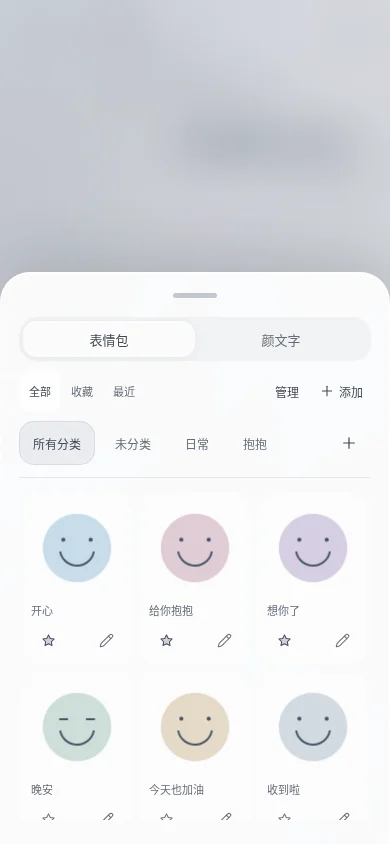
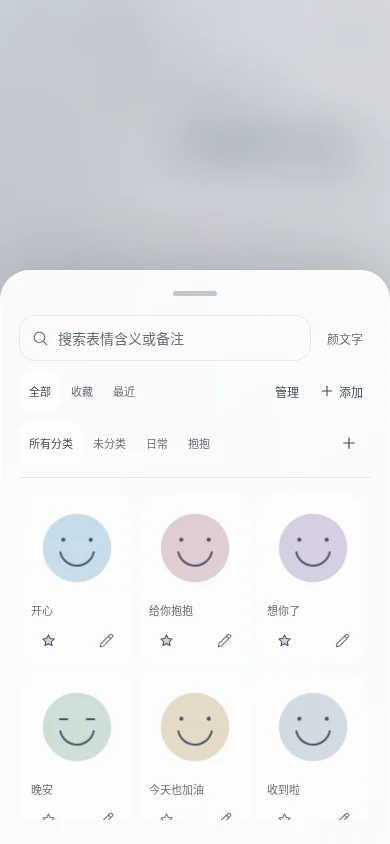
feat: replace expression tabs with search and simplify category chips

diff --git a/src/expressions/view.js b/src/expressions/view.js
@@ -5,12 +5,13 @@ import {visibleStickers} from './model.js';
 const action=(name,label,extra='')=>`<button type="button" data-sticker-action="${name}" ${extra}>${label}</button>`;
 export function expressionContents(state,ui={}){
  const tab=ui.tab||'stickers',stickers=tab==='stickers',managing=stickers&&ui.managing,selected=new Set(ui.selected||[]),category=ui.category??'all';
- const list=stickers?visibleStickers(state.expressions,ui):state.expressions.kaomoji.filter(x=>ui.filter==='favorites'?x.favorite:ui.filter==='recent'?x.used>0:true).slice().sort((a,b)=>ui.filter==='recent'?b.used-a.used:0);
- return `${drawerHeader({title:'表情与颜文字',heading:`<div class="expression-tabs" role="tablist">${[['stickers','表情包'],['kaomoji','颜文字']].map(([t,l])=>`<button role="tab" id="tab-${t}" aria-controls="expression-list" aria-selected="${tab===t}" data-action="expression-tab" data-tab="${t}">${l}</button>`).join('')}</div>`})}
- <div class="expression-toolbar"><div class="tray-filters">${[['all','全部'],['favorites','收藏'],['recent','最近']].map(([f,l])=>`<button data-action="expression-filter" data-filter="${f}" aria-pressed="${ui.filter===f||!ui.filter&&f==='all'}" class="${(ui.filter||'all')===f?'active':''}">${l}</button>`).join('')}</div><div class="expression-toolbar-actions">${stickers?action('manage',managing?'完成':'管理',`aria-pressed="${!!managing}"`):''}${managing?'':stickers?action('add',`${icon('plus')}添加`):`<button data-action="add-kaomoji">${icon('plus')}添加</button>`}</div></div>
- ${stickers?`<div class="sticker-category-row"><div class="sticker-categories" aria-label="表情包分类">${[{id:'all',name:'所有分类'},{id:'',name:'未分类'},...state.expressions.categories].map(c=>action('category',escape(c.name),`data-id="${escape(c.id)}" aria-pressed="${category===c.id}" ${c.id&&c.id!=='all'?'data-custom-category':''}`)).join('')}</div>${category&&category!=='all'?action('category-menu',icon('more'),`data-id="${escape(category)}" aria-label="管理当前分类"`):''}${action('new-category',icon('plus'),'aria-label="新增表情包分类"')}</div>`:''}
+ const query=(ui.search||'').trim().toLocaleLowerCase();
+ const list=stickers?visibleStickers(state.expressions,ui):state.expressions.kaomoji.filter(x=>(!query||x.value.toLocaleLowerCase().includes(query))&&(ui.filter==='favorites'?x.favorite:ui.filter==='recent'?x.used>0:true)).slice().sort((a,b)=>ui.filter==='recent'?b.used-a.used:0);
+ return `${drawerHeader({title:'表情与颜文字',heading:`<label class="expression-search">${icon('search')}<input type="search" data-expression-search maxlength="200" value="${escape(ui.search||'')}" placeholder="${stickers?'搜索表情含义或备注':'搜索颜文字'}" aria-label="${stickers?'搜索表情包':'搜索颜文字'}" autocomplete="off"></label><button type="button" class="expression-kind" data-action="expression-tab" data-tab="${stickers?'kaomoji':'stickers'}" aria-label="切换到${stickers?'颜文字':'表情包'}">${stickers?'颜文字':'表情包'}</button>`})}
+ <div class="expression-toolbar"><div class="tray-filters">${[['all','全部'],['favorites','收藏'],['recent','最近']].map(([f,l])=>`<button data-action="expression-filter" data-filter="${f}" aria-pressed="${ui.filter===f||!ui.filter&&f==='all'}" class="expression-choice ${(ui.filter||'all')===f?'active':''}">${l}</button>`).join('')}</div><div class="expression-toolbar-actions">${stickers?action('manage',managing?'完成':'管理',`aria-pressed="${!!managing}"`):''}${managing?'':stickers?action('add',`${icon('plus')}添加`):`<button data-action="add-kaomoji">${icon('plus')}添加</button>`}</div></div>
+ ${stickers?`<div class="sticker-category-row"><div class="sticker-categories" aria-label="表情包分类">${[{id:'all',name:'所有分类'},{id:'',name:'未分类'},...state.expressions.categories].map(c=>action('category',escape(c.name),`class="expression-choice ${category===c.id?'active':''}" data-id="${escape(c.id)}" aria-pressed="${category===c.id}" ${c.id&&c.id!=='all'?'data-custom-category':''}`)).join('')}</div>${category&&category!=='all'?action('category-menu',icon('more'),`data-id="${escape(category)}" aria-label="管理当前分类"`):''}${action('new-category',icon('plus'),'aria-label="新增表情包分类"')}</div>`:''}
  ${managing?`<div class="sticker-selection"><span role="status">已选 ${selected.size} 项</span>${action('select-all',list.length&&list.every(s=>selected.has(s.id))?'取消全选':'全选当前',list.length?'':'disabled')}</div>`:''}
- <div id="expression-list" class="expression-grid ${stickers?'sticker-grid':''}" role="tabpanel" aria-labelledby="tab-${tab}">${list.length?list.map(x=>stickers?`<article class="sticker-tile drawer-card ${selected.has(x.id)?'is-selected':''}"><button class="expression-use sticker-use" ${managing?`data-sticker-action="select" aria-pressed="${selected.has(x.id)}"`:'data-action="use-expression"'} data-id="${escape(x.id)}" aria-label="${managing?'选择':'添加表情包'}：${escape(x.note||x.name)}"><img src="${escape(x.value)}" alt="${escape(x.note||x.name)}" loading="lazy" referrerpolicy="no-referrer" draggable="false">${managing?`<span class="sticker-check" aria-hidden="true">${selected.has(x.id)?icon('check'):''}</span>`:''}</button><p class="sticker-note">${escape(x.note||x.name)}</p>${managing?'':`<div class="sticker-tools">${action('favorite',icon('star'),`data-id="${escape(x.id)}" aria-label="${x.favorite?'取消收藏':'收藏'} ${escape(x.note||x.name)}" aria-pressed="${x.favorite}"`)}${action('edit',icon('edit'),`data-id="${escape(x.id)}" aria-label="编辑表情备注 ${escape(x.note||x.name)}"`)}</div>`}</article>`:`<article class="expression-tile drawer-card"><button class="expression-use" data-action="use-expression" data-id="${escape(x.id)}" aria-label="插入颜文字 ${escape(x.value)}">${escape(x.value)}</button><div class="expression-tools"><button data-action="favorite-expression" data-id="${escape(x.id)}" aria-pressed="${x.favorite}" aria-label="收藏" class="${x.favorite?'favorite':''}">${icon('star')}</button>${button('edit-kaomoji','edit','编辑',`data-id="${escape(x.id)}"`)}${button('delete-expression','trash','删除',`data-id="${escape(x.id)}"`)}</div></article>`).join(''):`<div class="tray-empty sticker-empty">${icon('mood')}<p>${ui.filter==='recent'?'用过的表情会留在这里。':ui.filter==='favorites'?'把喜欢的表情收藏起来。':'收集一点想表达的心情。'}</p>${stickers&&!managing?action('add','添加表情包'):''}</div>`}</div>
+ <div id="expression-list" class="expression-grid ${stickers?'sticker-grid':''}" role="region" aria-label="${stickers?'表情包':'颜文字'}列表">${list.length?list.map(x=>stickers?`<article class="sticker-tile drawer-card ${selected.has(x.id)?'is-selected':''}"><button class="expression-use sticker-use" ${managing?`data-sticker-action="select" aria-pressed="${selected.has(x.id)}"`:'data-action="use-expression"'} data-id="${escape(x.id)}" aria-label="${managing?'选择':'添加表情包'}：${escape(x.note||x.name)}"><img src="${escape(x.value)}" alt="${escape(x.note||x.name)}" loading="lazy" referrerpolicy="no-referrer" draggable="false">${managing?`<span class="sticker-check" aria-hidden="true">${selected.has(x.id)?icon('check'):''}</span>`:''}</button><p class="sticker-note">${escape(x.note||x.name)}</p>${managing?'':`<div class="sticker-tools">${action('favorite',icon('star'),`data-id="${escape(x.id)}" aria-label="${x.favorite?'取消收藏':'收藏'} ${escape(x.note||x.name)}" aria-pressed="${x.favorite}"`)}${action('edit',icon('edit'),`data-id="${escape(x.id)}" aria-label="编辑表情备注 ${escape(x.note||x.name)}"`)}</div>`}</article>`:`<article class="expression-tile drawer-card"><button class="expression-use" data-action="use-expression" data-id="${escape(x.id)}" aria-label="插入颜文字 ${escape(x.value)}">${escape(x.value)}</button><div class="expression-tools"><button data-action="favorite-expression" data-id="${escape(x.id)}" aria-pressed="${x.favorite}" aria-label="收藏" class="${x.favorite?'favorite':''}">${icon('star')}</button>${button('edit-kaomoji','edit','编辑',`data-id="${escape(x.id)}"`)}${button('delete-expression','trash','删除',`data-id="${escape(x.id)}"`)}</div></article>`).join(''):`<div class="tray-empty sticker-empty">${icon('mood')}<p>${query?'没有找到相关表情，换个关键词试试。':ui.filter==='recent'?'用过的表情会留在这里。':ui.filter==='favorites'?'把喜欢的表情收藏起来。':'收集一点想表达的心情。'}</p>${stickers&&!managing?action('add','添加表情包'):''}</div>`}</div>
  ${managing?`<footer class="sticker-bulk-actions">${action('move',`${icon('layout')}移动`,selected.size?'':'disabled')}${action('delete',`${icon('trash')}删除`,selected.size?'':'disabled')}</footer>`:''}`;
 }
 export function categoryField(expressions,current=''){

diff --git a/src/expressions/style.css b/src/expressions/style.css
@@ -5,9 +5,10 @@
 .expression-toolbar .tray-filters{margin:0;gap:0}.expression-toolbar .tray-filters button{min-height:44px;padding:8px 10px}
 .expression-toolbar-actions{display:flex;gap:4px;flex-shrink:0}.expression-toolbar-actions button{display:flex;align-items:center;justify-content:center;gap:4px;min-height:44px;padding:8px;border-radius:14px;font-size:12px}.expression-toolbar-actions svg{width:16px;height:16px}
 .sticker-category-row{display:flex;align-items:center;gap:4px;min-width:0;padding-bottom:12px;border-bottom:1px solid var(--hairline);margin-bottom:12px}
-.sticker-categories{display:flex;gap:6px;overflow-x:auto;scrollbar-width:none;min-width:0;flex:1;overscroll-behavior:contain}
-.sticker-categories button{flex-shrink:0;max-width:180px;overflow:hidden;text-overflow:ellipsis;white-space:nowrap;min-height:44px;padding:8px 13px;border-radius:15px;font-size:12px;color:var(--muted);border:1px solid transparent;touch-action:pan-x;-webkit-touch-callout:none;user-select:none}
-.sticker-categories [aria-pressed=true]{color:var(--ink);background:rgb(var(--tint) / .12);border-color:var(--hairline)}
+.sticker-categories{display:flex;gap:0;overflow-x:auto;scrollbar-width:none;min-width:0;flex:1;overscroll-behavior:contain}
+.sticker-categories button{flex-shrink:0;max-width:180px;overflow:hidden;text-overflow:ellipsis;white-space:nowrap;min-height:44px;padding:8px 10px;border-radius:14px;font-size:11px;color:var(--muted);border:0;touch-action:pan-x;-webkit-touch-callout:none;user-select:none}
+.expression-tray .expression-choice{min-height:44px;padding:8px 10px;border:0;border-radius:14px;background:none;font-size:11px;color:var(--muted)}
+.expression-tray .expression-choice.active{background:rgb(var(--glass-tint) / .65);color:var(--ink)}
 .sticker-category-row>button{display:grid;place-items:center;width:44px;height:44px;border-radius:14px;flex-shrink:0}.sticker-category-row>button svg{width:18px;height:18px}
 .expression-tray .expression-grid{flex:0 1 auto;min-height:0;max-height:min(330px,42dvh);padding:3px;scroll-padding:4px}
 .expression-tray .sticker-grid{grid-template-columns:repeat(3,minmax(0,1fr));gap:8px;align-items:start}
@@ -39,3 +40,12 @@ dialog.sticker-sheet,dialog.expression-dialog.bottom-sheet{position:fixed;inset:
 @media(max-height:550px){.chat-view>.chat-tray.expression-tray{display:block;max-height:calc(100dvh - 16px);overflow:auto}.expression-tray .expression-grid{max-height:none;overflow:visible}.sticker-bulk-actions{margin-bottom:4px}}
 
 .sticker-format-help{font-size:12px;color:var(--muted);margin:8px 0}.sticker-format-help summary{min-height:44px;padding:12px 0;cursor:pointer}.sticker-format-help pre{white-space:pre-wrap;overflow-wrap:anywhere;line-height:1.7;padding:12px;border-radius:14px;background:rgb(var(--tint) / .08);font-size:11px}
+
+.expression-tray .drawer-heading{gap:8px}
+.expression-search{display:flex;align-items:center;flex:1;min-width:0;gap:9px;padding:0 12px;border:1px solid var(--hairline);border-radius:16px;background:color-mix(in srgb,rgb(var(--glass-tint) / calc(.22 * var(--glass-soften))),rgb(var(--glass-tint)) calc(var(--glass-solid) * 100%));color:var(--muted)}
+.expression-search>svg{width:17px;height:17px}
+.expression-search input{width:100%;min-width:0;min-height:44px;padding:10px 0;border:0;background:none;font-size:14px;line-height:1.5;outline-offset:0}
+.expression-search input::placeholder{color:var(--muted)}
+.expression-tray .expression-kind{flex-shrink:0;min-width:52px;min-height:44px;padding:8px 4px;border-radius:12px;font-size:12px;color:var(--muted)}
+
+.expression-search:focus-within{outline:2px solid var(--accent);outline-offset:2px}.expression-search input:focus-visible{outline:none}.expression-search input::-webkit-search-cancel-button{filter:grayscale(1)}

diff --git a/tests/expressions.test.js b/tests/expressions.test.js
@@ -40,3 +40,17 @@ test('chat image captions are hidden while notes and file names remain accessibl
  assert(!html.includes('<span>不显示的图片名'));assert(!html.includes('<span>&lt;img onerror'));assert(html.includes('alt="抱抱"'));assert(html.includes('保留的文件名.txt'));assert(html.includes('我写的正文'));
  importStickers(s.expressions,[{note:'<script>test</script>',value:'https://example.com/a'}]);const panel=expressionContents(s,{tab:'stickers',managing:true,selected:[s.expressions.stickers[0].id]});assert(panel.includes('&lt;script&gt;'));assert(!panel.includes('<script>'));assert(panel.includes('aria-pressed="true"'));assert(panel.includes('移动'));
 });
+
+test('search matches notes and legacy names together with category and favorite/recent filters without mutating the library',()=>{
+ const e=createState().expressions,a=saveCategory(e,'日常'),b=saveCategory(e,'抱抱');
+ importStickers(e,parseStickerText('温柔抱抱：https://example.com/a\nGOOD NIGHT：https://example.com/b'),a.id);
+ importStickers(e,parseStickerText('抱抱你：https://example.com/c'),b.id);
+ e.stickers[0].used=10;e.stickers[1].favorite=false;e.stickers[2].used=20;
+ const original=structuredClone(e);
+ assert.deepEqual(visibleStickers(e,{search:' 抱抱 ',filter:'recent'}).map(s=>s.note),['抱抱你','温柔抱抱']);
+ assert.deepEqual(visibleStickers(e,{search:'抱抱',category:a.id,filter:'favorites'}).map(s=>s.note),['温柔抱抱']);
+ assert.deepEqual(visibleStickers(e,{search:'good night'}).map(s=>s.note),['GOOD NIGHT']);
+ assert.equal(visibleStickers(e,{search:'good night',filter:'favorites'}).length,0);
+ e.stickers[1].name='old-name.png';assert.equal(visibleStickers(e,{search:'OLD-NAME'}).length,1);e.stickers[1].name=original.stickers[1].name;
+ assert.deepEqual(e,original);
+});

diff --git a/src/expressions/controller.js b/src/expressions/controller.js
@@ -15,6 +15,19 @@ export function createStickerLibrary({app,getState,setState,getUI,persist,notify
   const scroll=panel.querySelector('.expression-grid')?.scrollTop||0,categoryScroll=panel.querySelector('.sticker-categories')?.scrollLeft||0;
   panel.innerHTML=expressionContents(getState(),ui());panel.querySelector('.expression-grid').scrollTop=scroll;const categories=panel.querySelector('.sticker-categories');if(categories)categories.scrollLeft=categoryScroll;
  }
+ // Update results without replacing the search input or interrupting Chinese IME.
+ function search(event){
+  const input=event.target;if(!input.matches('[data-expression-search]'))return;
+  ui().search=input.value;if(event.isComposing)return;ui().selected=[];
+  const panel=input.closest('.expression-tray'),template=document.createElement('template');
+  // Keep the search field still when the result list becomes shorter.
+  panel.style.height=input.value?(panel.style.height||`${panel.getBoundingClientRect().height}px`):'';
+  template.innerHTML=expressionContents(getState(),ui());
+  for(const selector of ['.expression-grid','.sticker-selection','.sticker-bulk-actions']){
+   const current=panel.querySelector(selector),next=template.content.querySelector(selector);if(current&&next)current.replaceChildren(...next.childNodes);
+  }
+ }
+ app.addEventListener('input',search);app.addEventListener('compositionend',search);
  async function close(){if(!dialog.open||closing||busy)return;closing=true;const current=revision;await animateDrawerClose(dialog);if(current!==revision)return;dialog.close();closing=false;}
  bindDrawerDismiss(dialog,{panel:()=>dialog.open&&!closing&&!busy?dialog:null,close,backdrop:true});
  dialog.addEventListener('cancel',e=>{e.preventDefault();void close();});

diff --git a/src/expressions/model.js b/src/expressions/model.js
@@ -14,8 +14,9 @@ export function normalizeExpressions(value,defaults){
  return {kaomoji:clean(value.kaomoji,false),stickers:clean(value.stickers,true),categories};
 }
 export function visibleStickers(expressions,ui={}){
+ const query=(ui.search||'').trim().toLocaleLowerCase();
  const category=ui.category&&expressions.categories.some(c=>c.id===ui.category)?ui.category:ui.category===''?'':'all';
- return expressions.stickers.filter(x=>(category==='all'||(x.category||'')===category)&&(ui.filter==='favorites'?x.favorite:ui.filter==='recent'?x.used>0:true)).slice().sort((a,b)=>ui.filter==='recent'?b.used-a.used:0);
+ return expressions.stickers.filter(x=>(!query||[x.note,x.name].some(value=>value?.toLocaleLowerCase().includes(query)))&&(category==='all'||(x.category||'')===category)&&(ui.filter==='favorites'?x.favorite:ui.filter==='recent'?x.used>0:true)).slice().sort((a,b)=>ui.filter==='recent'?b.used-a.used:0);
 }
 export function saveCategory(expressions,name,id=''){
  name=typeof name==='string'?name.trim():'';

diff --git a/docs/CODEX_HANDOFF.md b/docs/CODEX_HANDOFF.md
@@ -108,7 +108,7 @@
 - `src/splash.js` / `src/splash.css` / `assets/`：水雾开屏。
 - `legacy/`：旧桌面程序存档，不是当前入口。
 - `docs/architecture.md`：后续架构路线参考，不是已经实现的功能清单。
-- `tests/`：Node 内置测试。最近一轮 47 项通过。
+- `tests/`：Node 内置测试。最近一轮 48 项通过。
 
 运行：
 
@@ -264,3 +264,12 @@ npm test
 - 表情包、分类、导入、移动／删除及颜文字编辑均沿用共用玻璃抽屉和拖拽横条，无右上角 ×；支持横条、下拖、遮罩、Escape 与焦点恢复。收藏／分类／多选通过局部更新保留面板及网格滚动；短横屏整体滚动，防止管理栏压住图片。面板支持昼夜及全局透明度／模糊设置。
 - 验证：47 项 Node 测试与全部模块语法检查通过；Chromium 在 320×640、390×844、844×390 验证上传备注、保存失败回滚、文字／TXT／JSON／真实压缩 DOCX 导入、错误输入、去重、分类长按／重命名／删除、多选移动／删除取消与确认、聊天无图片文件名、备份与刷新保留旧数据、昼夜和颜文字。375px 普通动效另检查真实 GIF 上传、无效新文件不能沿用旧预览、玻璃滑块两端及 Escape／拖拽关闭。未用真实 iOS 设备验证文件解压和格式兼容性。
 - 新实际预览：docs/preview-stickers.webp、preview-stickers-dark.webp、preview-stickers-manage.webp、preview-stickers-import.webp、preview-stickers-note.webp。使用临时自制图片／含义展示，默认数据仍为空表情包库，未加入用户截图素材或假模型回复。
+
+
+## 表情面板搜索与轻量分类（2026-10-17）
+
+- 按用户标注删除顶部「表情包／颜文字」大切换条，替换为含义／备注搜索栏。颜文字保留为搜索栏右侧的小文字入口，切换后可搜索颜文字；原添加／编辑／插入和草稿行为保留。
+- 分类与「全部／收藏／最近」共用 expression-choice：同字号、点击区域、内边距、圆角和浅色选中填充，删除分类原来的深色染底与边框。自定义分类仍可横向滚动与长按管理。
+- visibleStickers 将搜索词与分类、收藏／最近过滤组合；兼容旧名称、忽略英文大小写与首尾空格，不改持久数据。搜索变化清空多选，全选只作用于当前搜索结果。
+- 输入时仅更新列表／选择状态，保留搜索 input 节点、焦点与输入法组合状态；搜索缩短结果时固定当前抽屉高度，防止输入栏上下跳动。空结果提供提示；焦点使用搜索栏的圆角外框。
+- 验证：48 项 Node 测试与语法检查；Chromium 在 320×640、390×844、844×390 检查实时搜索、中文组合输入、输入节点／位置稳定、组合筛选、两行按钮计算样式一致、搜索变化后多选清空、颜文字插入及原草稿／数据保留。真实昼夜预览同步更新，新增 docs/preview-stickers-search.webp。

diff --git a/README.md b/README.md
@@ -32,7 +32,7 @@ python3 -m http.server 5173 --bind 127.0.0.1
 
 ## 表情包与图片消息
 
-图片和表情包发出后只展示图片，备注仍保存在消息数据中，普通文件附件继续显示文件名。表情包面板支持：
+图片和表情包发出后只展示图片，备注仍保存在消息数据中，普通文件附件继续显示文件名。表情包面板顶部改为搜索栏，可按含义／备注实时筛选；右侧小入口保留颜文字切换。分类与「全部／收藏／最近」使用相同的轻量按钮。表情包面板支持：
 
 - 上传 JPG、PNG、WebP、GIF 并填写表情含义，保留透明底，GIF 保留原动画。
 - 粘贴「含义：HTTPS 图片网址」，或从 TXT、JSON、DOCX 导入；预览后确认，重复项跳过，错误内容不部分导入。
